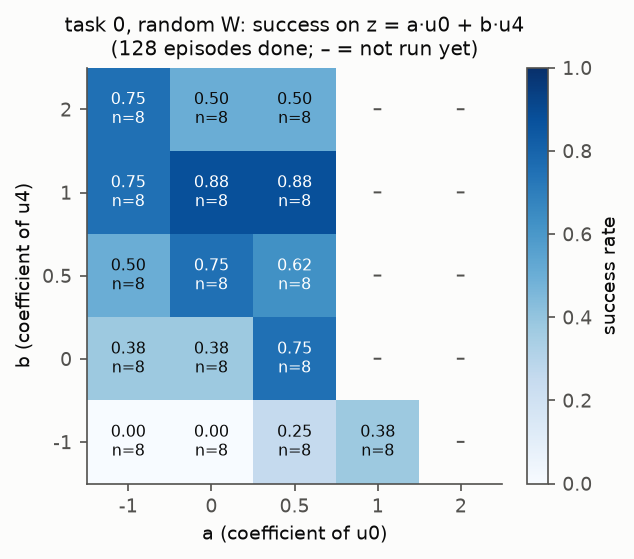
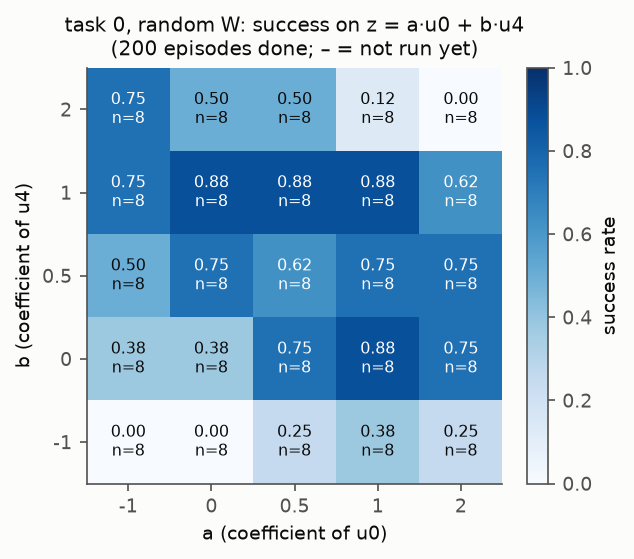
docs(results): steering held-out, transfer, landscape, style, takeaways

Changed region(s): [[0.5095, 0.1216, 0.8091, 0.8819], [0.6893, 0.1521, 0.7492, 0.2129], [0.1798, 0.0608, 0.2397, 0.1216]]

diff --git a/docs/results/smolvla_steer_object.md b/docs/results/smolvla_steer_object.md
@@ -80,7 +80,70 @@ Unimodal along each line; random W has a wide plateau, PCA W a narrow window (|s
 - Line-scan pick, t0 random u0 (s=1), 3 noise seeds, n=120 paired: z=0 0.44 → 0.62,
   31 wins / 10 losses, sign test p=0.0015. 2·u0: 0.625 (seed 1000). −u1: 0.00 (0 wins / 20 losses).
 
-TODO: grid picks (top-2 per task/W), plane scan.
+- Grid picks (top-2 of 48 (dir, scale) per task/W by success on inits 0–9; `val/selection.json`),
+  held-out inits 10–49 × 2 noise reps, n=80 paired with z=0:
+
+| task | z=0 | W | pick (dir, s) | grid | held-out | wins/losses | sign p |
+| --- | --- | --- | --- | --- | --- | --- | --- |
+| t0 | 0.39 | random | 4, +1 | 0.9 | **0.78** | 36/5 | 8e-7 |
+| t0 | | random | 0, +2 | 0.8 | 0.64 | 25/5 | 3e-4 |
+| t0 | | pca | 1, +0.5 | 0.9 | **0.80** | 34/1 | 2e-9 |
+| t0 | | pca | 7, −1 | 0.8 | 0.78 | 34/3 | 1e-7 |
+| t9 | 0.81 | random | 2, +0.5 | 0.9 | **0.93** | 10/1 | 0.012 |
+| t9 | | random | 4, +0.5 | 0.8 | 0.81 | 2/2 | 1 |
+| t9 | | pca | 7, +0.5 | 0.9 | **0.93** | 10/1 | 0.012 |
+| t9 | | pca | 7, +1 | 0.9 | 0.83 | 12/11 | 1 |
+
+  One round of random search over z already finds gains that generalize to unseen inits and
+  noise (t0 roughly doubles); in-sample grid numbers overestimate (winner's curse): the top
+  pick holds everywhere, second picks only on t0. Both W reach the same level.
+
+What the t0 picks change (held-out, from eef/gripper state): z=0 failures are mostly missed
+grasps — 92% of failed episodes close the fingers on air (width < 1 cm) at least once; such
+empty closes occur in 69% of all z=0 episodes vs 16% (random d4, +1) and 17% (PCA d1, +0.5).
+(The 6 cm "closed" threshold in `analyze.py` is below the soup can's width, so its grasp-time
+column is not meaningful for t0.)
+
+## Cross-task transfer (random W; u0, u4 at s=1 picked on t0; inits 10–29 × 2 reps, n=40/task)
+
+Same W and directions on every task, so a z found on t0 can be applied as is:
+
+| task | 0 | 1 | 2 | 3 | 4 | 5 | 6 | 7 | 8 | 9 |
+| --- | --- | --- | --- | --- | --- | --- | --- | --- | --- | --- |
+| z=0 | .45 | .75 | 1.0 | .90 | .90 | .95 | .93 | .33 | .85 | .85 |
+| u0 | .55 | .93 | 1.0 | .75 | .95 | .82 | .95 | .62 | .97 | .85 |
+| u4 | .75 | .80 | .97 | .47 | .97 | .82 | .95 | .78 | .95 | .82 |
+
+Paired over all tasks: u0 43 wins / 23 losses (p=0.019), u4 53/37 (p=0.11). t7 (the other low
+task, never used for selection) gains most (u4 +18/−0); t3 is hurt (u4 −18/+1), t5 mildly.
+Effects are partly task-general but a single z is not a universal improvement → task/context-
+conditioned z is needed for a "policy adaptation" use.
+
+T7_PLACEHOLDER
+
+## Landscape: plane scan on t0 (random W, z = a·u0 + b·u4, inits 0–7, z=0: 0.38)
+
+| a \ b | −1 | 0 | 0.5 | 1 | 2 |
+| --- | --- | --- | --- | --- | --- |
+| −1 | 0.00 | 0.38 | 0.50 | 0.75 | 0.75 |
+| 0 | 0.00 | (0.38) | 0.75 | 0.88 | 0.50 |
+| 0.5 | 0.25 | 0.75 | 0.62 | 0.88 | 0.50 |
+| 1 | 0.38 | 0.88 | 0.75 | 0.88 | 0.12 |
+| 2 | 0.25 | 0.75 | 0.75 | 0.62 | 0.00 |
+
+A broad, smooth ridge (0.75–0.88 over a ∈ [0, 2], b ∈ [0.5, 1]) with failure toward b = −1 and
+large |z|: friendly to local search / CEM with a norm bound.
+
+## Style without failure (grid, successful episodes only)
+
+t2 z=0 successful episodes take 122 ± 10 steps. At ~0.9 success, PCA dirs 0/4 give 107 steps at
+s=+1 and 154/165 at s=−1 (monotone, sign-odd: a speed knob); across directions successful
+episode length spans 101–185 steps. Random W directions change length less systematically.
+
+Held-out check (t2, PCA, inits 10–29, paired, `val-t2-speed-pca`): z=0 1.00 success, 119 steps.
+−u0 / −u4: 1.00 success, +29 / +32 steps (Wilcoxon p ≈ 9e-5); +u0 / +u4: 0.80 / 0.85 success,
+−11 / −9 steps on episodes where both succeed (p = 0.007 / 0.04). Slowing is free, speeding up
+costs success.
 
 ## Figures
 
@@ -97,4 +160,27 @@ Regenerate with `python -m research.plot_steer`.
 
 ## Takeaways
 
-TODO
+1. z → FiLM on the action expert is a real control space, not just noise: from |s| ≈ 1 the
+   trajectory change exceeds flow-noise resampling, it is partly consistent across init states,
+   directions differ reliably (overdispersion 2–6), and which directions are harmful is shared
+   across tasks.
+2. The usable region is a bounded ball. Success is an inverted U in |z|: s ≤ 1 (median open-loop
+   |Δa0| ≲ 0.1, chunk |Δa| ≲ 0.15–0.2) is usable, s ≥ 2 mostly breaks the policy, s = 4 always.
+   Open-loop chunk |Δa| predicts closed-loop failure (ρ ≈ −0.86) → a cheap, sim-free trust region
+   or normalization for z before optimization.
+3. Reachability/optimizability looks good: one round of random search over 48 candidates on 10
+   inits gives held-out gains (t0 0.39 → 0.78–0.80, t9 0.81 → 0.93); success along lines and the
+   2-D plane is unimodal and smooth. CEM over a norm-bounded z should be sample-efficient; the
+   main risk is selection noise → score candidates with paired noise, several inits, and keep a
+   held-out set.
+4. Random vs PCA W: similar best-case gains. PCA has a narrower safe window (fails by |s| ≈ 1.5),
+   heavier open-loop tails and a more sign-odd closed-loop response; its directions read more
+   like knobs (validated speed knob on t2: slow +30 steps at no cost, fast −10 steps at −15–20%
+   success). Random W has the wider plateau.
+5. Evaluation for later optimization: paired-noise success on held-out inits (primary), paired
+   effect/noise ratio and main-effect fraction (controllability), open-loop |Δa| (budget).
+   Per-init best-of-K is useless here (8 noise reps at z=0 already reach 0.9–1.0).
+
+Caveats: one W seed per scheme, d=8 and layers 7,15,23,31 fixed, libero_object only, grid on
+10 inits; z=0 rates differ between laptop and Sol (e.g. t9 5/8 local vs 0.81 held-out on Sol),
+so comparisons are always paired within one machine.
